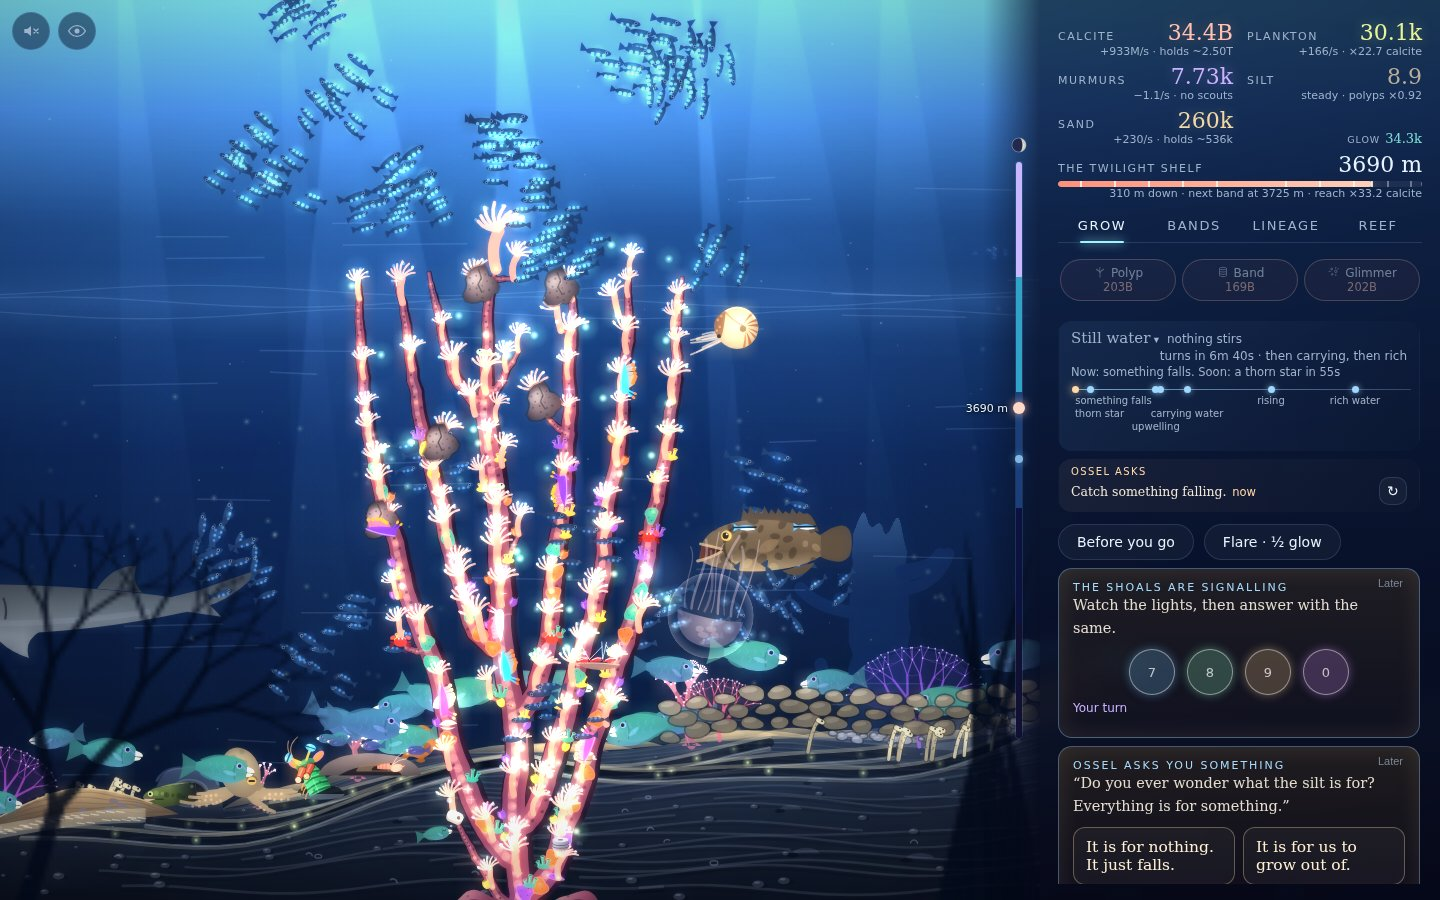
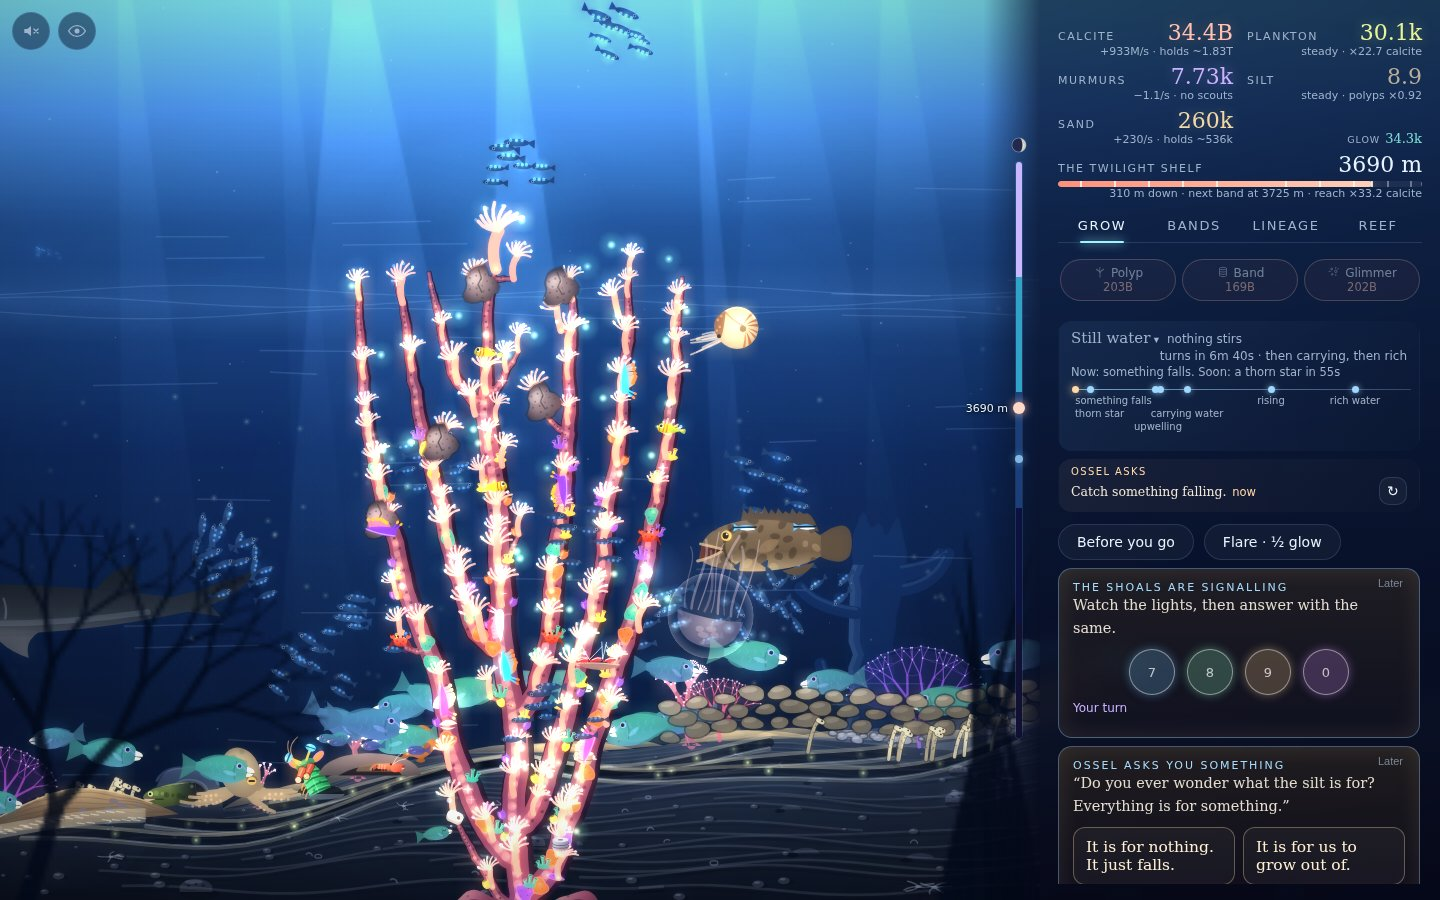
Weather strip: dots under 20 px share a centre; README panel and phone pictures retaken

diff --git a/src/game/ui/panel.ts b/src/game/ui/panel.ts
@@ -2326,14 +2326,14 @@ export function createPanel(host: HTMLElement, hooks: PanelHooks) {
           // runs out, a turn of the water loses its label before something to act on does.
           const W = almanac.clientWidth || 300;
           const labelOf = (w: string) => w.replace(/^(a|an|the) /, '').split(' (')[0]!;
-          // Dots a few pixels apart (things due within a minute or so of each other) share one
+          // Dots under 20 px apart (things due within a minute or two of each other) share one
           // centre for their labels, so the labels stacked under them line up instead of each
           // sitting a little off the one above.
           const dotX = marks.map(([t]) => (Math.max(0, t) / 1200) * W);
           const anchor = dotX.slice();
           for (let i = 0; i < marks.length;) {
             let j = i + 1;
-            while (j < marks.length && dotX[j]! - dotX[j - 1]! < 14) j++;
+            while (j < marks.length && dotX[j]! - dotX[j - 1]! < 20) j++;
             const mid = dotX.slice(i, j).reduce((a, x) => a + x, 0) / (j - i);
             for (let k = i; k < j; k++) anchor[k] = mid;
             i = j;

diff --git a/docs/PROGRESS.md b/docs/PROGRESS.md
@@ -1480,3 +1480,4 @@ date, what landed, what is half-done, what's next.
 - Long-session memory (a release question for an idle game left open for hours): a phone at the Midnight→Twilight stage run at 50× for ~4 h of game time with sweeps in bursts, the heap measured after forced GC (CDP Runtime.getHeapUsage; performance.memory is bucketed in headless Chromium and read a flat 10.0 MB): 7.2 MB at load, 10.8 after warm-up, then a plateau at 11.5–12.3 MB; DOM elements flat at ~2,890–2,915. No leak.
 - README pictures retaken for today's art (silt-floor, midnight-water, twilight-shelf, sunlit-crown: the nodule fields, round banded towers, sand rubble, shelf brittle stars), and the link preview (share.jpg) too. The preview had caught the reef's song (the "call" ring swelling every 4 s) mid-ring, which in a still reads as a glass dome over the crown; tools/share.ts now freezes the scene at the end of a cycle (t=903.85) instead of shooting at whatever moment the page was ready.
 - `?nohints` (main.ts hintsShown): every frame drawn as the photo frame is (no touch-me rings, visitor halo, lucky sparks or tap ripples). tools/readme.ts and tools/share.ts use it, and the Breach and full-moon README moments sit at the end of a song cycle (t … .85): the old Breach picture carried a feast's bubble, a fish's bubble and the song's ring over the crown, the full moon the noon-coloured grottoes from before tonight's night shading. All six zone pictures and the preview retaken; listed in CLAUDE.md's debug params.
+- README panel and phone pictures retaken (today's panel). The phone picture showed the weather strip's grouping missing a case: three dots 12 and 15 px apart (at that size labels overlap closer than ~20 px) grouped two and left the third on its own, its label off to the side of the stack. Dots under 20 px apart share a centre now (was 14): the three stack as one column.
